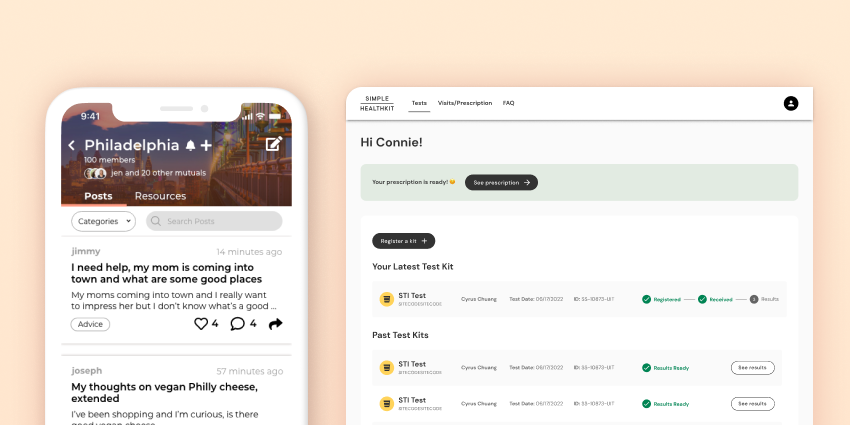
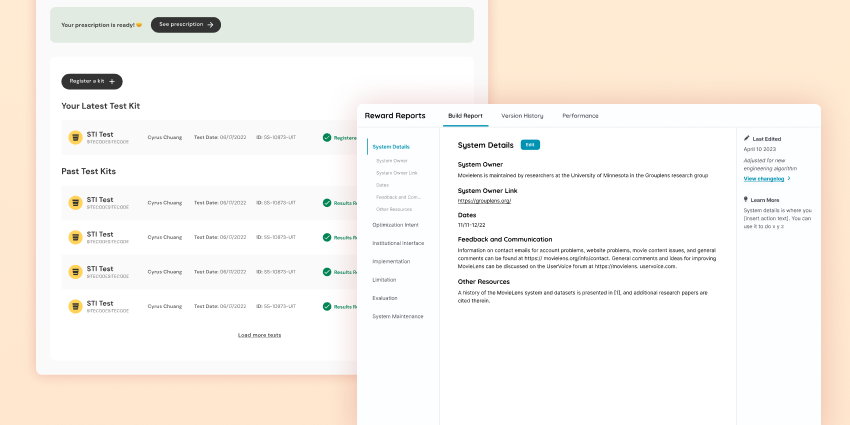
adding more stuff

diff --git a/pages/index.js b/pages/index.js
@@ -29,8 +29,8 @@ export default function Home({ allPostsData }) {
             fascinated with scaling systems ✿{" "}
           </h1>
           <p>
-            Previously at Scale AI, The New York Times, BuzzFeed, and various
-            startups (KP Fellows){" "}
+            Currently at Atlassian ☆ Previously at Scale, NYTimes, BuzzFeed, and
+            various startups (KP Fellows){" "}
           </p>
         </div>
         <Image

diff --git a/posts/startups.md b/posts/startups.md
@@ -1,7 +1,7 @@
 ---
-title: "Startups etc."
+title: "Freelance"
 date: "2018-08-01"
-type: "Seed to Series A"
+type: "Reward Reports Research, Startups etc."
 pic: "/images/startup.png"
 next: "nyt"
 
@@ -11,7 +11,14 @@ role: "0 - 1 design, research to shipping"
 context: "MVP's, Design Systems, Product"
 ---
 
-I’ve also gotten the chance to work at several smaller startups as well as do other design work. Below is a preview of my work for each. **abillion and NIH** have corresponding case studies.
+I’ve also gotten the chance to work at several smaller startups (seed to Series A) and miscellaneous places like the NIH and a Cornell Tech Research group.
+
+# Reward Reports (2023)
+
+The [Reward Reports](https://rewardreports.github.io/) project was started for documentation of changes in AI systems. You can view the research report with some examples of Reward Reports [here](https://arxiv.org/abs/2204.10817) with some examples of their structure.
+![RR](startups/rreport.png)
+View the video demo of the edit experience I designed [here](https://www.loom.com/share/7dcf58db3220485bbdf2d772003a5d33?t=43&sid=09114717-c2da-414c-926e-8952ed5c4dee).
+View the video demo of the analytics experience I designed [here](https://www.loom.com/share/a11cba8379e14cdda60d3c62789be4d4)
 
 # Mintlify (2023)
 
